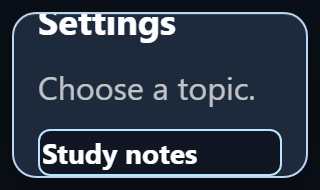
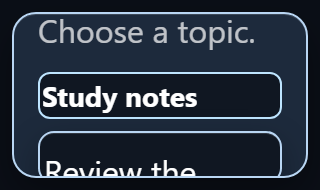
test(ui): protect bounded Dialog focus in Linux scrollports

diff --git a/tests/ui/select-tall-dialog.spec.ts b/tests/ui/select-tall-dialog.spec.ts
@@ -148,6 +148,40 @@ async function expectActuallyVisible(page: Page, selector: string, stage: string
   expect(hit, `${stage}: not masked by a sticky Dialog sibling or another portal`).toBe(true);
 }
 
+async function expectBoundedExternalFocusRingVisible(page: Page, selector: string, stage: string) {
+  const geometry = await page.locator(selector).evaluate((element) => {
+    const scrollport = element.closest(".lyceum-dialog");
+    if (!scrollport) throw new Error("Focused control is not within a Dialog scrollport");
+    const control = element.getBoundingClientRect();
+    const dialog = scrollport.getBoundingClientRect();
+    const style = getComputedStyle(element);
+    // Use the actual scrollport client edges, not the outer bordered box.
+    const clipTop = dialog.top + scrollport.clientTop;
+    const clipLeft = dialog.left + scrollport.clientLeft;
+    return {
+      keyboardFocusVisible: element.matches(":focus-visible"),
+      outlineStyle: style.outlineStyle,
+      ringOutset: Number.parseFloat(style.outlineWidth) + Number.parseFloat(style.outlineOffset),
+      topClearance: control.top - Math.max(clipTop, 0),
+      bottomClearance: Math.min(clipTop + scrollport.clientHeight, innerHeight) - control.bottom,
+      leftClearance: control.left - Math.max(clipLeft, 0),
+      rightClearance: Math.min(clipLeft + scrollport.clientWidth, innerWidth) - control.right,
+    };
+  });
+  expect(geometry.keyboardFocusVisible, `${stage}: genuine keyboard focus indicator`).toBe(true);
+  expect(geometry.outlineStyle, `${stage}: painted external outline`).toBe("solid");
+  expect(geometry.ringOutset, `${stage}: external control focus outline`).toBeGreaterThanOrEqual(5);
+  expect(
+    Math.min(
+      geometry.topClearance,
+      geometry.bottomClearance,
+      geometry.leftClearance,
+      geometry.rightClearance,
+    ),
+    `${stage}: real external focus outline fits within Dialog clip ${JSON.stringify(geometry)}`,
+  ).toBeGreaterThanOrEqual(geometry.ringOutset);
+}
+
 /** The Linux 99%-row regression must be judged by actual glyph/ring pixels,
  * not by lowering an IntersectionObserver ratio alone. */
 async function expectFocusedOptionRendered(page: Page, stage: string) {
@@ -179,12 +213,14 @@ async function expectFocusedOptionRendered(page: Page, stage: string) {
     const ringColor = parseRgb(style.outlineColor);
     let glyphStrokes = 0;
     let glyphPixels = 0;
+    let backgroundPixels = 0;
     for (let y = Math.ceil(glyph.top); y < Math.floor(glyph.bottom); y++) {
       for (let x = Math.ceil(glyph.left); x < Math.floor(glyph.right); x++) {
         if (x < 0 || y < 0 || x >= bitmap.width || y >= bitmap.height) continue;
         const color = ctx.getImageData(x, y, 1, 1).data;
         const matches = background.every((value, i) => Math.abs(value - (color[i] ?? 0)) <= 16);
         if (!matches) glyphStrokes++;
+        else backgroundPixels++;
         glyphPixels++;
       }
     }
@@ -205,6 +241,8 @@ async function expectFocusedOptionRendered(page: Page, stage: string) {
     }
     const topLimit = Math.max(0, list.top, content.top);
     const bottomLimit = Math.min(innerHeight, list.bottom, content.bottom);
+    const leftLimit = Math.max(0, list.left, content.left);
+    const rightLimit = Math.min(innerWidth, list.right, content.right);
     const point = document.elementFromPoint(
       glyph.left + glyph.width / 2,
       glyph.top + glyph.height / 2,
@@ -219,10 +257,15 @@ async function expectFocusedOptionRendered(page: Page, stage: string) {
         isHighlighted: item.hasAttribute("data-highlighted"),
       },
       clippedRowPixels: Math.max(0, topLimit - frame.top) + Math.max(0, frame.bottom - bottomLimit),
-      glyphFullyVisible: glyph.top >= topLimit && glyph.bottom <= bottomLimit,
+      glyphFullyVisible:
+        glyph.top >= topLimit &&
+        glyph.bottom <= bottomLimit &&
+        glyph.left >= leftLimit &&
+        glyph.right <= rightLimit,
       textHit: point === span || !!(point && span.contains(point)),
       glyphPixels,
       glyphStrokes,
+      backgroundPixels,
       ringSamples,
       ringPixels,
     };
@@ -241,6 +284,10 @@ async function expectFocusedOptionRendered(page: Page, stage: string) {
     measured.glyphStrokes / measured.glyphPixels,
     `${stage}: actual glyph pixels`,
   ).toBeGreaterThan(0.05);
+  expect(
+    measured.backgroundPixels / measured.glyphPixels,
+    `${stage}: avoid an opaque text-sized rectangle hiding selected glyphs`,
+  ).toBeGreaterThan(0.1);
   expect(measured.ringPixels, `${stage}: painted inset focus ring pixels`).toBeGreaterThan(3);
 }
 
@@ -334,6 +381,11 @@ test("tall real Dialog body: natural Tab keeps two Selects, options and sibling 
     page,
     'button:has-text("Acknowledge study notes")',
     "Shift+Tab back to preceding control",
+  );
+  await expectBoundedExternalFocusRingVisible(
+    page,
+    'button:has-text("Acknowledge study notes")',
+    "Shift+Tab Acknowledge external ring",
   );
   await page.keyboard.press("Tab");
   await expect(selectTrigger).toBeFocused();
@@ -560,7 +612,10 @@ test("all supported short viewport scales, RTL and compact long-description keep
     await expectRealPopperInViewport(page, `${width}x${height}/${scale} end`);
     await page.keyboard.press("Home");
     await expect(page.getByRole("option", { name: "Mathematics" })).toBeFocused();
-    await expectActuallyVisible(page, '[role="option"]:focus', "variant first option");
+    // Linux can clip a fraction of the outer option row during Radix scroll
+    // positioning. Require actual unobscured text glyphs and inset focus-ring
+    // pixels rather than treating a 0.x-pixel row edge as unreadable focus.
+    await expectFocusedOptionRendered(page, `${width}x${height}/${scale} Home Mathematics`);
     await page.keyboard.press("Escape");
     await expectActuallyVisible(page, "#qa-runtime-topic", "variant Select return");
     if (height === 190 || dir === "rtl") {
@@ -584,6 +639,11 @@ test("tall body live 100%-to-200% change leaves the same portalled focused optio
   await keyboardOpenDialog(page);
   await keyboardTabTo(page, "#qa-runtime-topic");
   await expectActuallyVisible(page, "#qa-runtime-topic", "100% tall body trigger");
+  await expectBoundedExternalFocusRingVisible(
+    page,
+    "#qa-runtime-topic",
+    "100% Select external ring",
+  );
   await page.keyboard.press("Enter");
   // Radix makes the parent Dialog inert while the separately portalled Select
   // is open; its DOM identity remains stable though its role is hidden.

diff --git a/tests/fixtures/runtime-preferences.css b/tests/fixtures/runtime-preferences.css
@@ -1,5 +1,15 @@
 /* QA-only complex-Dialog consumer contract. Nothing here changes the public
    Lyceum Dialog or Select primitives, Radix's Popper or focus ownership. */
+.lyceum-dialog.qa-bounded-dialog {
+  /* Keep native keyboard scrolling clear of the dialog's clipped edges so
+     external trigger/button focus indicators remain entirely perceivable. */
+  scroll-padding-block: var(--space-3);
+}
+
+.qa-bounded-controls :is(.lyceum-button, .lyceum-select__trigger) {
+  scroll-margin-block: var(--space-2);
+}
+
 .qa-bounded-dialog .lyceum-dialog__body {
   position: static;
   bottom: auto;

diff --git a/docs/qa/runtime-preferences/tall-body-investigation.md b/docs/qa/runtime-preferences/tall-body-investigation.md
@@ -2,6 +2,25 @@
 
 ## 2026-11-24 · audit #17 owner-approved consumer proof of concept (newer evidence)
 
+**First exact-head hosted Linux cross-check was RED:** [run
+45474734072](https://github.com/hyvvs/lyceum/actions/runs/45474734072)
+at `c719ead7405dda1a3db421100c25fb17e5f5ddc2` passed frozen install,
+`pnpm verify`, Storybook build, Dependency audit and Secret scan, plus
+`AXE_COVERAGE_VERIFIED unique_stories=141 required_states=164 executed_states=164`,
+but its full Chromium run **failed 3/88 (85 passed), each on retry**.
+Actual natural-keyboard focus existed, but Chromium Linux returned only
+**99.7274%** element intersection for Shift+Tab Acknowledge, **99.4673%**
+for the initial 100%-scale Select trigger and **99.3253%** for Home-focused
+Mathematics. The failure is an acceptance blocker even though fractional
+intersection alone does not prove unreadable glyphs. The follow-up adds
+**QA-consumer-only** token-based native scroll clearance for focused control
+external outlines, an explicit computed outline+scrollport geometry check,
+and the existing actual screenshot glyph/focus-ring proof for Home-focused
+Mathematics (instead of blanket 100%-row intersection or a lowered ratio).
+The remaining strict control geometry, Popper alignment, keyboard paths,
+44px targets and all earlier scenarios remain. **New exact-head hosted Linux
+Verify is still required; this entry is not a green Linux claim.**
+
 Owner **approved a QA-consumer-specific bounded reading/controls layout and use
 of the existing DialogContent.onOpenAutoFocus hook**, but **did not authorize
 merging, new Dialog/Select public APIs, dependencies, custom focus ownership,
@@ -35,7 +54,13 @@ glyph-by-glyph reading-contrast certification.
 `tests/fixtures/runtime-preferences.css` is **test-fixture only**. It
 separates `qa-bounded-reading` from `qa-bounded-controls`, uses existing
 Lyceum spacing/color/target tokens, and specifically overrides the
-short-height **whole-body sticky** CSS for this bounded composition. It
+short-height **whole-body sticky** CSS for this bounded composition. To
+protect naturally focused controls' **external 3px outline plus offset**
+from fractional Linux/Dialog scroll clipping, the bounded Dialog alone uses
+logical native `scroll-padding-block: var(--space-3)` and its own
+buttons/Select triggers use `scroll-margin-block: var(--space-2)`.
+These are scroll clearance tokens for this one consumer, **not** hard-coded
+popup translations or Radix positioning overrides. It
 does not alter `packages/ui/src/glass.css` or any production component.
 When the user's preference state reflows an open Select, a fixture-local
 `useLayoutEffect` locates the **actual open trigger within that Dialog** and
@@ -55,18 +80,24 @@ DOM mutations, mobile virtual keyboards and every custom Dialog layout are
 | State | Previous unbounded screenshot | Approved bounded consumer screenshot |
 | --- | --- | --- |
 | Keyboard-open 320×256 | [Acknowledge focused offscreen](tall-initial-focus-before.png): y1203.6–1302 | [Reading-start focus visible](tall-bounded-initial-256.png): heading y171.6–218.8; its separate scroll region begins at y230.8 and becomes available through forward Tab |
-| Keyboard-open 320×190 | Prior unbounded long-body offscreen initial focus (same root cause) | [Reading-start focus visible](tall-bounded-initial-190.png): heading y128.6–175.8, with natural Dialog scrolling to reveal its focus; reading is reachable by subsequent Tab |
+| Keyboard-open 320×190 | Prior unbounded long-body offscreen initial focus (same root cause) | [Reading-start focus visible](tall-bounded-initial-190.png): heading y71.6–118.8, Dialog scrollTop 100, with native clearance and reading frame beginning y130.8; reachable by forward Tab |
 | Open portalled Select live 100%→200% at 320×256 | [Popup/focus entirely offscreen](tall-live-scale-before.png): popup y693–925, last focus y875–919 | [Same-node live popup visible](tall-bounded-live-scale-256.png): Radix popup **and wrapper** y162–243.6, focused Literature y194–238, actual trigger y100.8–154.4 |
-| Reading end at 320×256 | Previously all 1,020px reading flowed unbounded before controls | [Last paragraph via internal native scroll](tall-bounded-reading-end-256.png): reading scrollTop 1,157 of max 1,157; last text shown with a distinct thicker focus ring |
+| Reading end at 320×256 | Previously all 1,020px reading flowed unbounded before controls | [Last paragraph via internal native scroll](tall-bounded-reading-end-256.png): reading scrollTop 1,157 of max 1,157, frame y91.8–163.4; last text shown with a distinct thicker focus ring |
 | ArrowDown at 320×256/200% | Prior hosted Linux at old unbounded head saw 99.0057% option area visible | [Rendered Physics glyph and focus ring](tall-bounded-arrow-focus-256.png): active row y198–242 in the after screenshot; a separate automated actual-pixel test also checks glyph and inset ring visibility before and after live text scaling, without assuming complete list visibility |
 | Forced colors and RTL | Native platforms not tested | [Chromium-emulated forced colors](tall-bounded-forced-colors-256.png): selected label and purple system Highlight focus ring readable; [800×256 RTL](tall-bounded-rtl-800.png): right-aligned glyphs and visible final option |
 
-The pixel check uses the actual Chromium screenshot, checks item text glyph
-bounds against its scrollport and viewport, verifies that the text is
-hit-testable, samples contrasting glyph strokes and the **inset** focus outline,
-and logs the exact subpixel row-edge clipping. It replaces only the overly
-strong 100%-intersection assumption for the ArrowDown-focused row; the
-End/Home assertions, 44px option targets, and focus usability requirement
+The pixel check now also covers Home-focused **Mathematics** for each 320×190,
+320×256 and 800×256 scale/direction matrix case, in addition to the original
+ArrowDown Physics checks. It uses the actual Chromium screenshot, checks item text
+bounds in **both axes** against its real option scrollport, popup and viewport,
+requires hit-testable text, samples **both** contrasting glyph pixels and
+background pixels within the selected text box (rejecting an opaque solid
+rectangle), samples the defined **inset** focus-ring stroke, and logs exact
+subpixel row-edge clipping. This sampled paint evidence is not OCR or
+glyph-by-glyph contrast certification. It replaces only the overly
+strong 100%-intersection assumption for the fractionally clipped **option rows**;
+the End strict visibility and Home actual text/ring proof, 44px option targets,
+strict full-control and external-focus-ring visibility, and usability requirement
 are retained. This means a marginal subpixel intersection on Linux will be
 assessed by actual rendered glyph/ring evidence, not hand-waved as accessible.
 

diff --git a/docs/STATUS.md b/docs/STATUS.md
@@ -2,6 +2,10 @@
 
 Shared memory for humans and agents. Newest entries first. Keep entries short. Mark blocked items with `BLOCKED:`.
 
+## 2026-11-24 · M0-003 · PR #16 Audit #17 hosted Linux fractional focus regressions — DRAFT, unmerged
+
+First owner-approved bounded QA commit `c719ead7405dda1a3db421100c25fb17e5f5ddc2` received **hosted Linux CI run [45474734072](https://github.com/hyvvs/lyceum/actions/runs/45474734072): Verify FAILED, 85 Chromium passed/3 failed, on both attempts**. All 141 stories/164 required axe states passed, as did hosted Dependency audit and Secret scan; Linux frozen install, `pnpm verify` and Storybook build also passed. Natural keyboard focus hit three **fractional** row intersections: Shift+Tab Acknowledge 99.7274%, initial 100%-scale Select trigger 99.4673%, Home-focused first Select option 99.3253%. Do **not** count that head as green or lower visibility ratios without pixel evidence. **QA-only follow-up pending new exact-head Linux:** token-based native Dialog scroll padding/target margin to protect the actual external control focus ring, strict visible-control assertions plus explicit outline clearance, and actual focused-option glyph/ring screenshot sampling (including subpixel row clipping). Local full Chromium and axe still pass **88/88, 141/164**; seven bounded screenshots were regenerated against the amended consumer. Historical unbounded defects remain intentionally reproducible. **BLOCKED:** new exact-head hosted Verify/Dependency audit/Secret scan and separate owner merge authorization. PR #16 stays OPEN/DRAFT/UNMERGED, M0-003 `[~]`, ADR-0009 APPROVED DEFERRAL; no production/public CSS/API/focus architecture changes, M0-004 or M0-017+ work.
+
 ## 2026-11-24 · M0-003 · PR #16 bounded Dialog final local QA and reviews — DRAFT, unmerged
 
 Owner-approved **consumer-only** reading/controls proof now passes **88/88 Chromium tests, 141-story/164-state axe inventory**, frozen install, `pnpm verify` (95 Vitest passed, one expected Windows skip), unrestricted dependency audit and Storybook build. At 320×190 the matrix additionally confirms first/last reading paragraphs visibly intersect and are hit-testable after real End/Home, plus keyboard Close activation and focus restoration at 190px and RTL. An intermediate concurrent Chromium run had **87 passed / 1 failed** on a pointer-wheel end-scroll check; the isolated test passed, and replacing a test-only direct scroll reset with natural Home resolved the sequencing in the subsequent **88/88 complete run**. Fresh independent **UX, architecture and security read-only reviews**, including incremental checks of the final QA assertions, found **no blockers**. **BLOCKED:** exact-head hosted Linux Verify/Dependency audit/Secret scan and separate owner merge authorization. PR remains OPEN/DRAFT/UNMERGED; original `tall-unbounded` historical defects are still reproducible, generic sticky CSS is not certified for arbitrary bodies, M0-003 stays `[~]`, ADR-0009 stays an APPROVED DEFERRAL, native AT/Windows forced colors/final imagery contrast/WebView performance are unverified, and M0-004/M0-017+ remain unstarted.

diff --git a/docs/qa/runtime-preferences/README.md b/docs/qa/runtime-preferences/README.md
@@ -11,6 +11,15 @@ scrolling on live preference reflow; the former failing
 pixels and precise acceptance boundaries](tall-body-investigation.md).
 No shared production Dialog/Select API/CSS, dependency, FocusScope, Popper,
 portal or global positioning manager changed in this proof of concept.
+**Hosted Linux exception (2026-11-24):** exact-head [CI 45474734072](https://github.com/hyvvs/lyceum/actions/runs/45474734072)
+at `c719ead` failed Verify (**85 Chromium passed / 3 fractional-focus
+intersection failures**, including retry), although Dependency audit,
+Secret scan and the 141/164 axe reporter passed. The fixture-only follow-up
+adds token-based native scroll clearance for control outlines and actual
+Home-focused glyph/ring pixel evidence, **not relaxed visibility thresholds**.
+Its final exact-head Linux acceptance is still pending; see the
+[investigation](tall-body-investigation.md). **DO NOT MERGE** before it passes
+and the owner separately approves.
 Latest full **local** verification: frozen install/verify/audit/Storybook
 **PASS**, Chromium **88 passed / 0 failed**, original 141/141 stories and
 164/164 required axe states executed. Independent read-only UX, architecture
